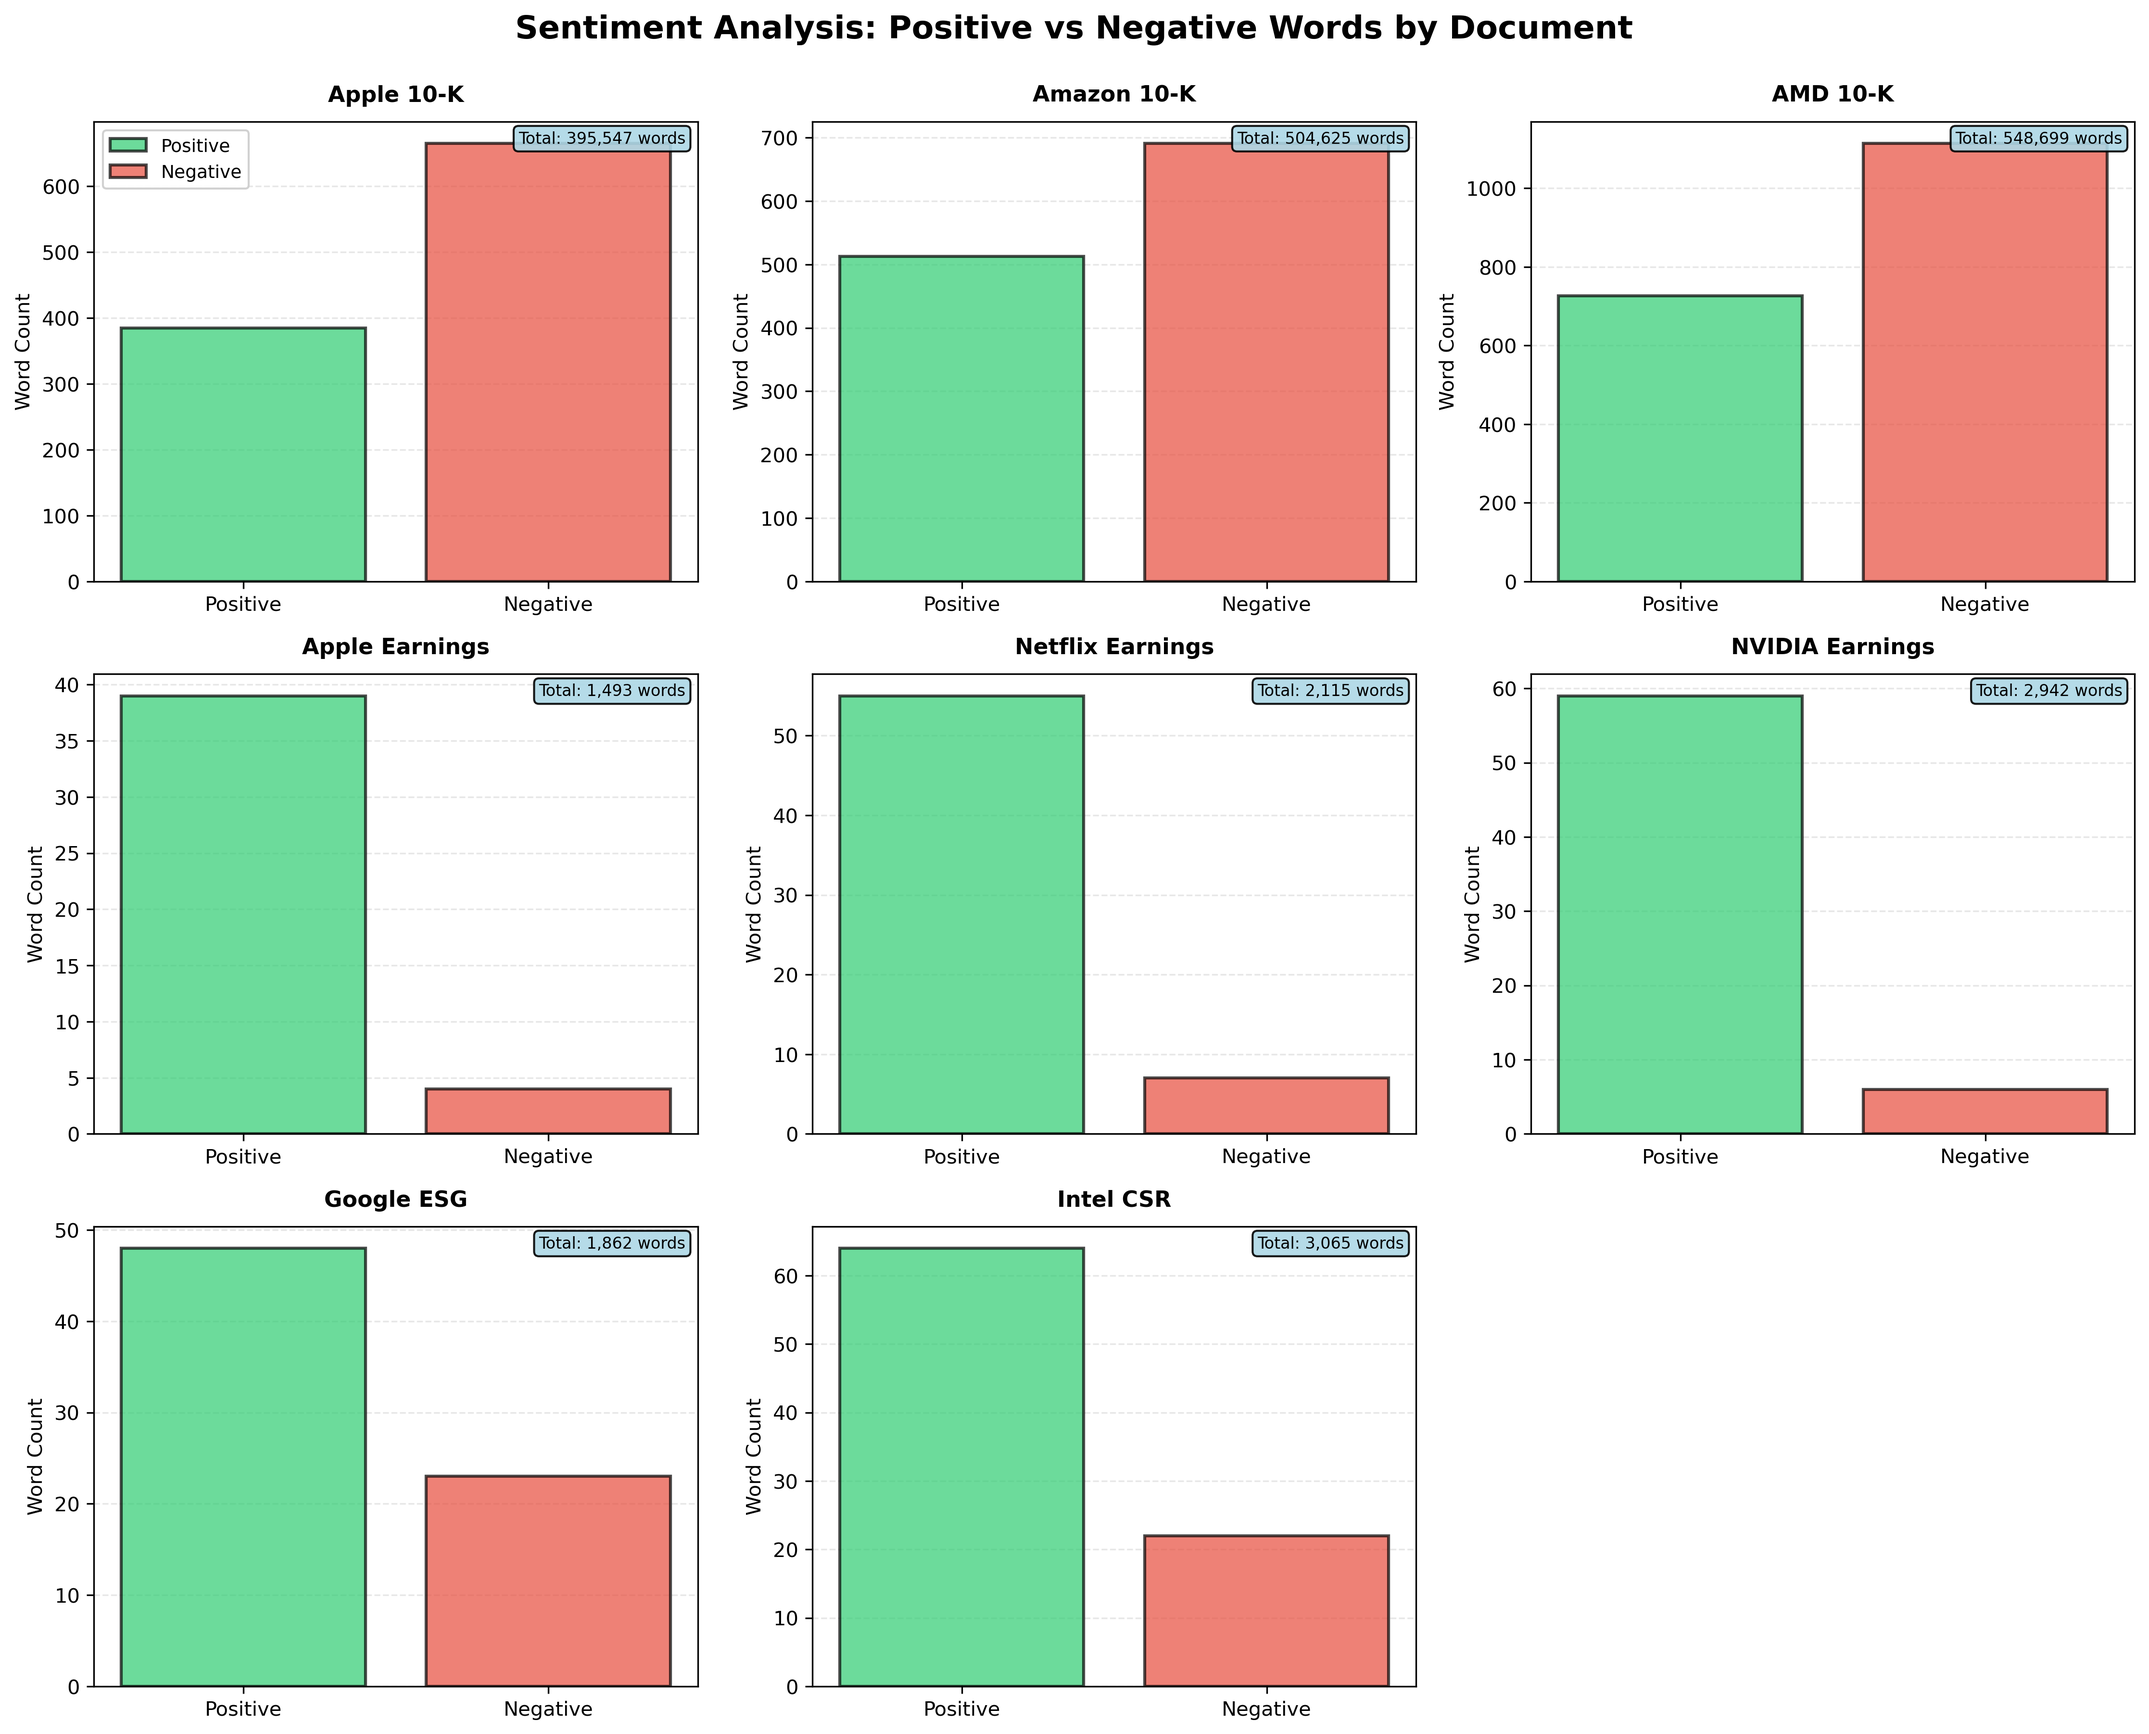
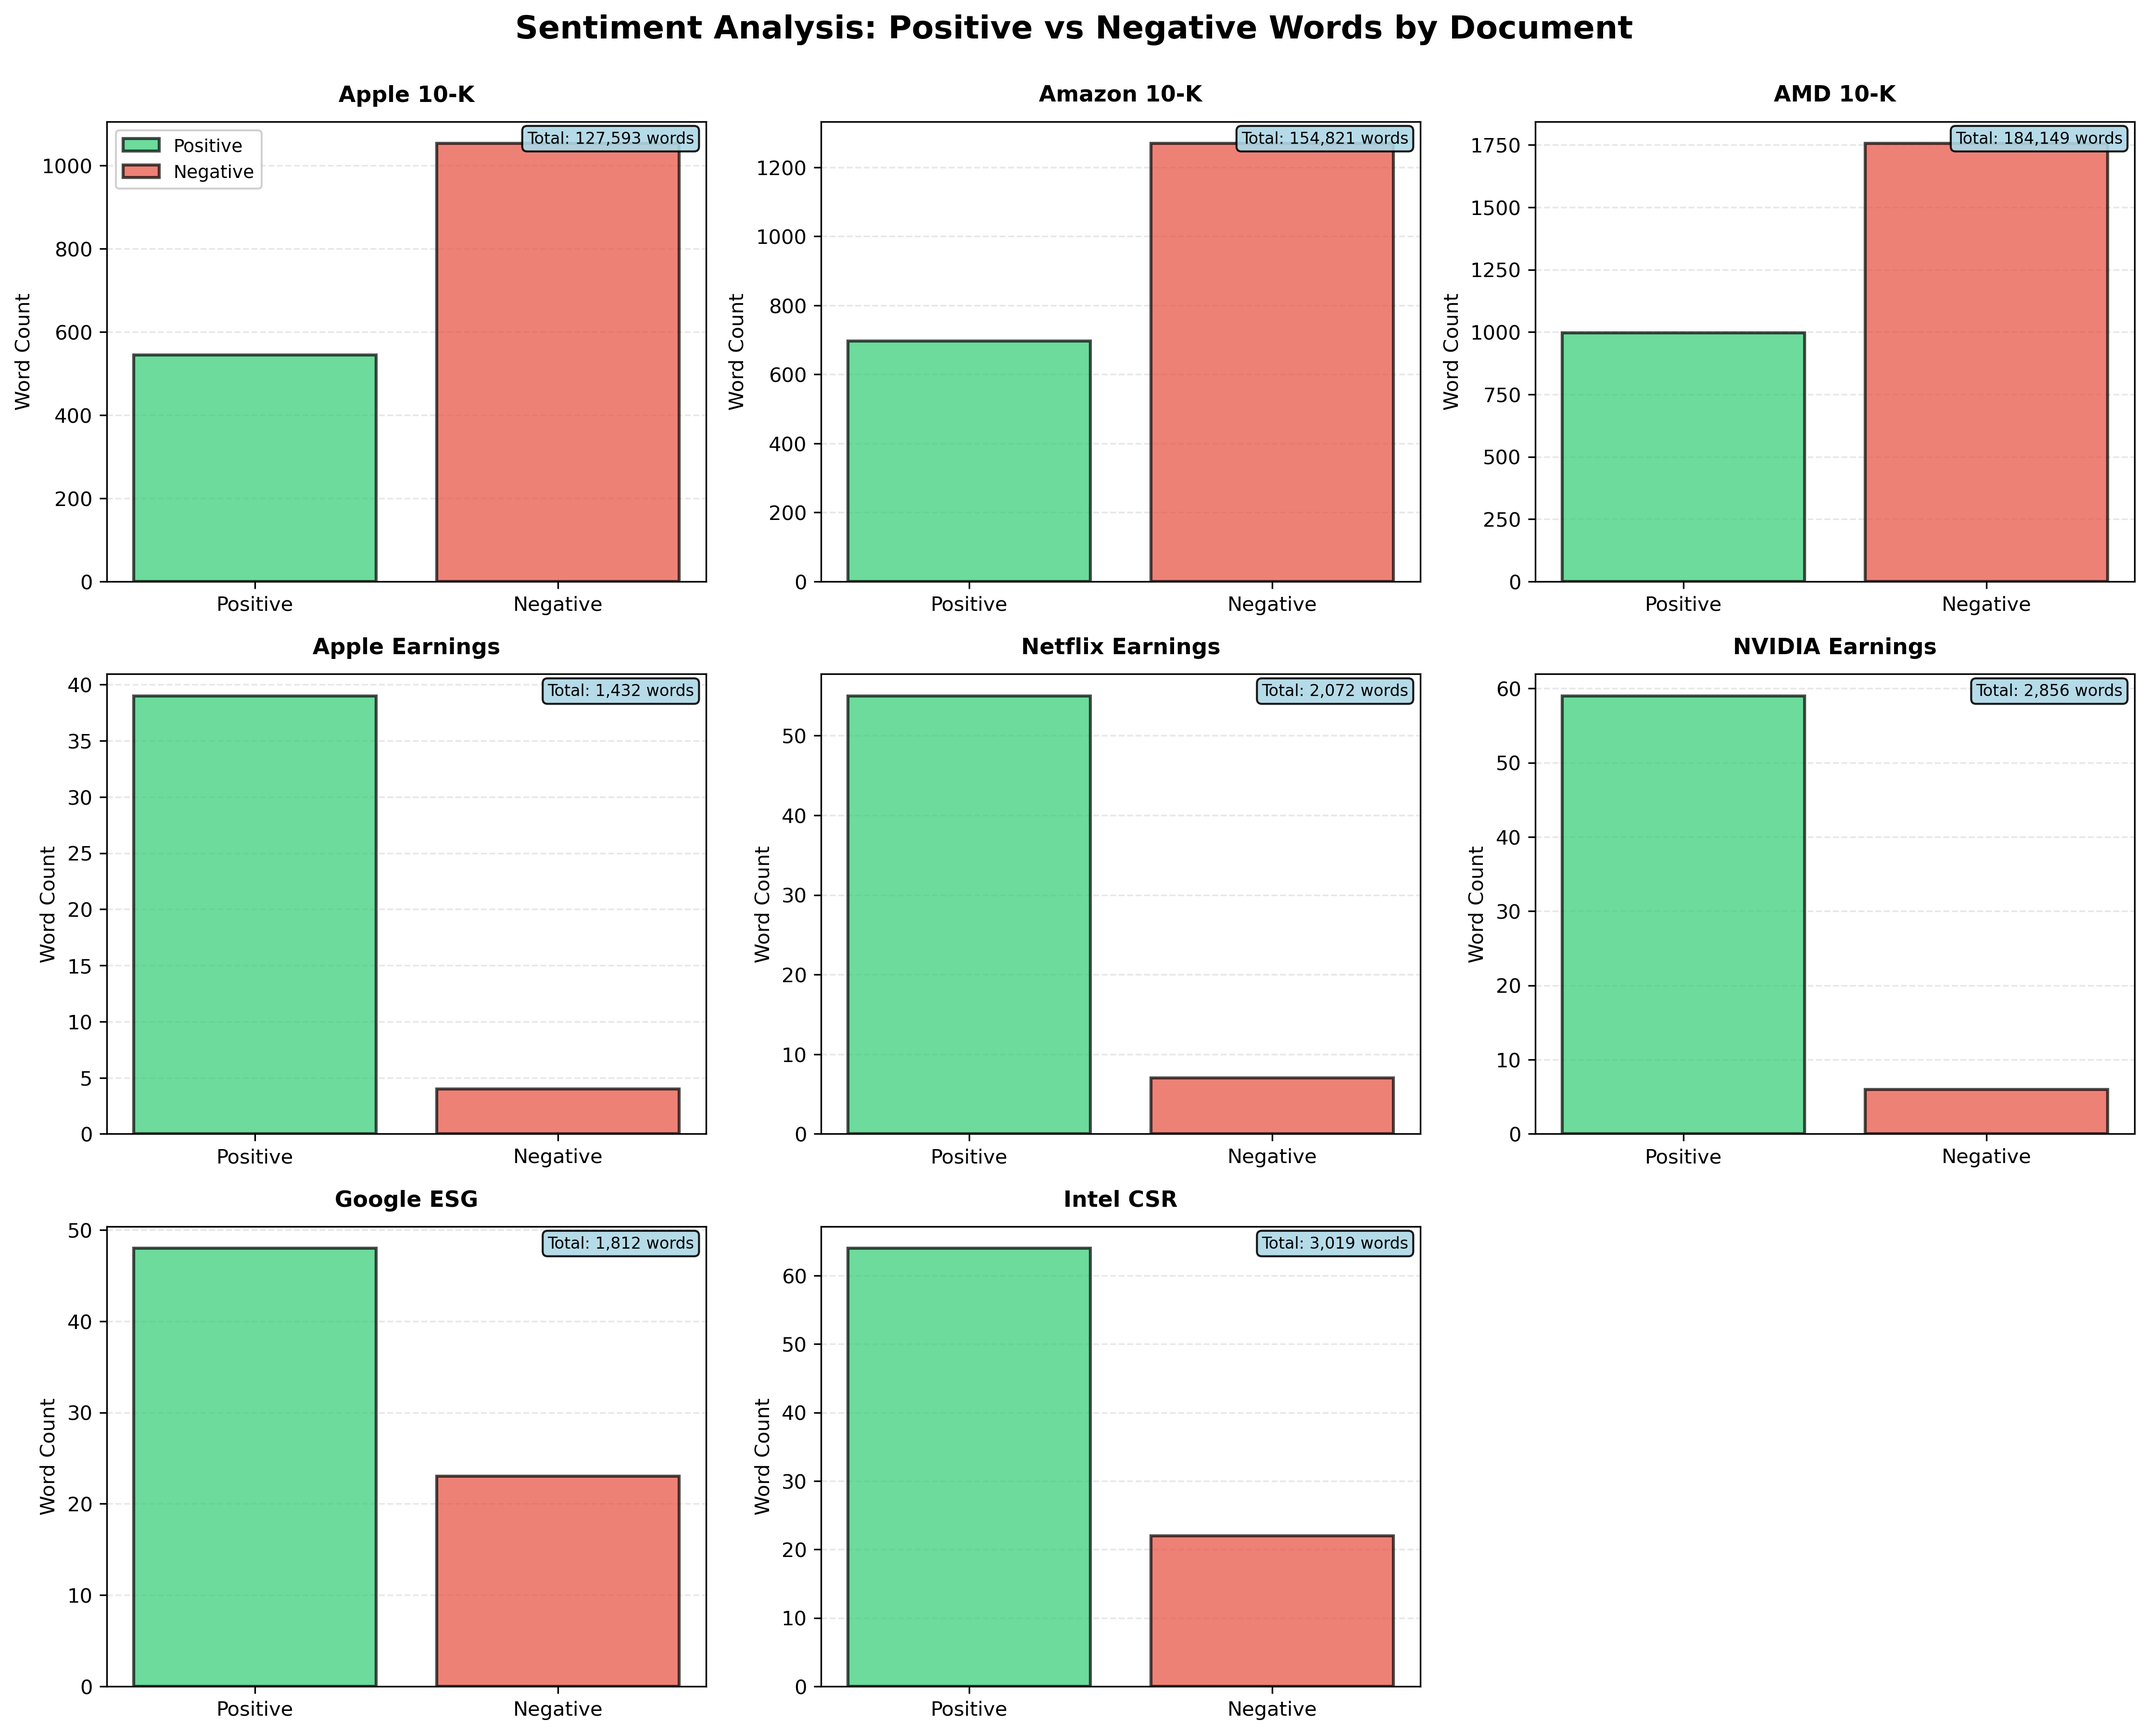
updated functionality for filtering

diff --git a/main.py b/main.py
@@ -7,7 +7,6 @@ Assignment: DS3500 HW7
 from artificial_unintelligence import ArtificialUnintelligence
 import au_parsers as aup
 
-
 def main():
     """
     Load documents, generate statistics, and create visualizations
@@ -26,13 +25,13 @@ def main():
 
     # 10k annual reports (3 documents)
     print("  Loading Apple 10-K 2024...")
-    analyzer.load_text('data/apple_10k_2024.txt', 'Apple 10-K')
+    analyzer.load_text('data/apple_10k_2024.txt', 'Apple 10-K', parser=aup.html_like_parser)
 
     print("  Loading Amazon 10-K 2024...")
-    analyzer.load_text('data/amazon_10k_2024.txt', 'Amazon 10-K')
+    analyzer.load_text('data/amazon_10k_2024.txt', 'Amazon 10-K', parser=aup.html_like_parser)
 
     print("  Loading AMD 10-K 2024...")
-    analyzer.load_text('data/amd_10k_2024.txt', 'AMD 10-K')
+    analyzer.load_text('data/amd_10k_2024.txt', 'AMD 10-K', parser=aup.html_like_parser)
 
     # Earnings calls (3 documents)
     print("  Loading Apple Q4 2024 Earnings Call...")
@@ -83,27 +82,7 @@ def main():
     # Viz 1: Sankey with curated words
     print("\nGenerating Sankey diagram with curated tech/business words...")
 
-    # Curated list of meaningful business/tech terms
-    curated_words = [
-        # Business
-        'revenue', 'customers', 'growth', 'business', 'products',
-        'services', 'market', 'sales', 'quarter', 'year',
-
-        # Technology
-        'technology', 'data', 'software', 'innovation', 'development',
-        'intelligence', 'computing', 'infrastructure', 'platform',
-
-        # Company names
-        'apple', 'amazon', 'google', 'intel', 'nvidia', 'amd', 'netflix',
-
-        # AI specific
-        'artificial', 'models', 'cloud', 'devices', 'systems',
-
-        # ESG
-        'energy', 'emissions', 'environmental', 'sustainability', 'water'
-    ]
-
-    analyzer.wordcount_sankey(word_list=curated_words)
+    analyzer.wordcount_sankey()
     print("Sankey diagram generated!")
 
     # Viz 2: Subplots

diff --git a/artificial_unintelligence.py b/artificial_unintelligence.py
@@ -10,7 +10,6 @@ import matplotlib.pyplot as plt
 import plotly.graph_objects as go
 import plotly.io as pio
 import numpy as np
-import re
 
 pio.renderers.default = "browser"
 
@@ -80,15 +79,15 @@ class ArtificialUnintelligence:
          Map each text to words using a Sankey diagram, where the thickness of the line
         """
 
-        # Step 1: get wordcount data: dict[label -> Counter]
+        # Pulling wordcount data
         if "wordcount" not in self.data:
             print("No wordcount data available. Did you load any texts?")
             return
 
-        wordcounts = self.data["wordcount"]  # {label: Counter(...)}
+        wordcounts = self.data["wordcount"]
         doc_labels = list(wordcounts.keys())
 
-        # Step 2: decide which words to include
+        # Decide which words to use (if specified)
         if word_list is not None:
             # Use caller to caller provided word list
             selected_words = [
@@ -108,14 +107,14 @@ class ArtificialUnintelligence:
             print("No words selected for Sankey (maybe all filtered out).")
             return
 
-        # Step 3: build node labels
+        # Building more labels
         word_labels = selected_words
         node_labels = doc_labels + word_labels
 
         # Map each label to a node index
         label_to_index = {lab: i for i, lab in enumerate(node_labels)}
 
-        # Step 4: build link lists (src, targ, val)
+        # Building link lists
         src = []
         targ = []
         val = []
@@ -133,7 +132,7 @@ class ArtificialUnintelligence:
             print("No non-zero counts for the selected words.")
             return
 
-        # Step 5: create Sankey figure
+        # Creating sankey figure
         fig = go.Figure(data=[go.Sankey(
             node=dict(
                 label=node_labels,

diff --git a/au_parsers.py b/au_parsers.py
@@ -6,6 +6,7 @@ Assignment: DS3500 HW7
 
 import json
 from collections import Counter
+import re
 
 import json
 from collections import Counter
@@ -76,6 +77,33 @@ def json_parser(filename):
         raw = json.load(file)
     text = raw["text"]
     return text
+
+def html_like_parser(filename):
+    """
+    Custom parser for HTML-ish or SEC filings with CSS code.
+    Returns cleaned plain text.
+    """
+    with open(filename, "r", encoding="utf-8") as f:
+        text = f.read()
+
+    # Remove script and style blocks
+    text = re.sub(r'<script.*?>.*?</script>', ' ', text, flags=re.DOTALL | re.IGNORECASE)
+    text = re.sub(r'<style.*?>.*?</style>', ' ', text, flags=re.DOTALL | re.IGNORECASE)
+
+    # Remove ALL HTML tags
+    text = re.sub(r'<[^>]*>', ' ', text)
+
+    # Remove inline attributes: key="...", key='...', key=value
+    text = re.sub(r'\b\w+\s*=\s*(".*?"|\'.*?\'|\S+)', ' ', text)
+
+    # Remove punctuation that causes weird tokens
+    text = re.sub(r'[^a-zA-Z\s]', ' ', text)
+
+    # Collapse whitespace
+    text = re.sub(r'\s+', ' ', text)
+
+    return text.strip()
+
 
 
 
